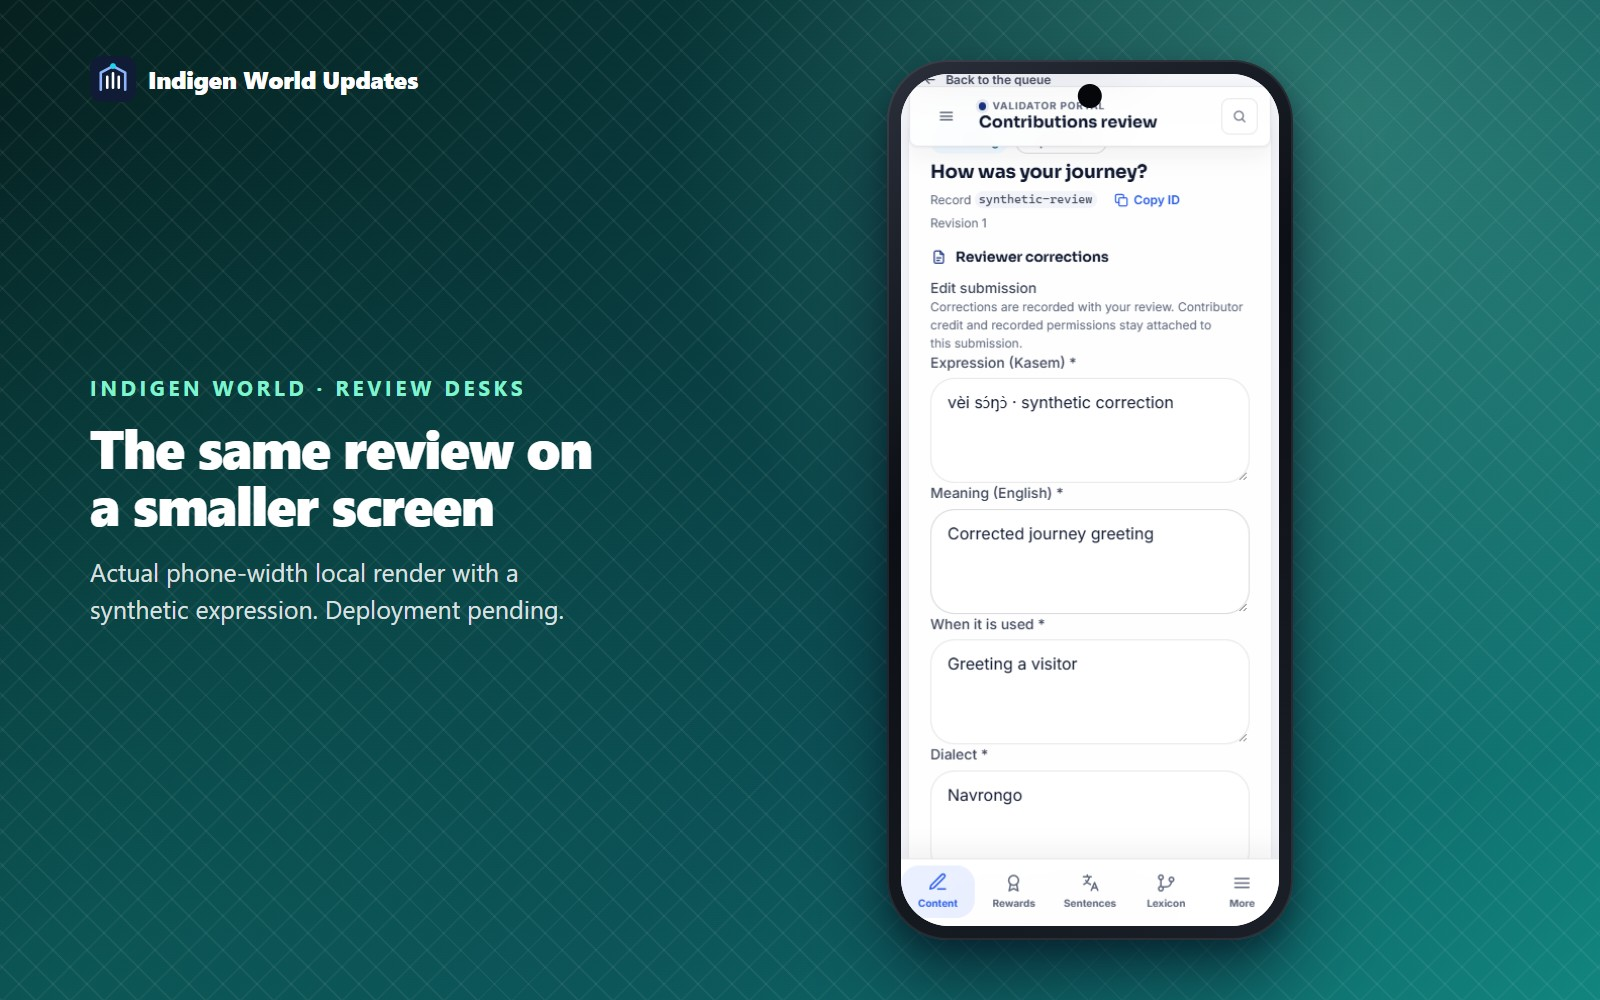
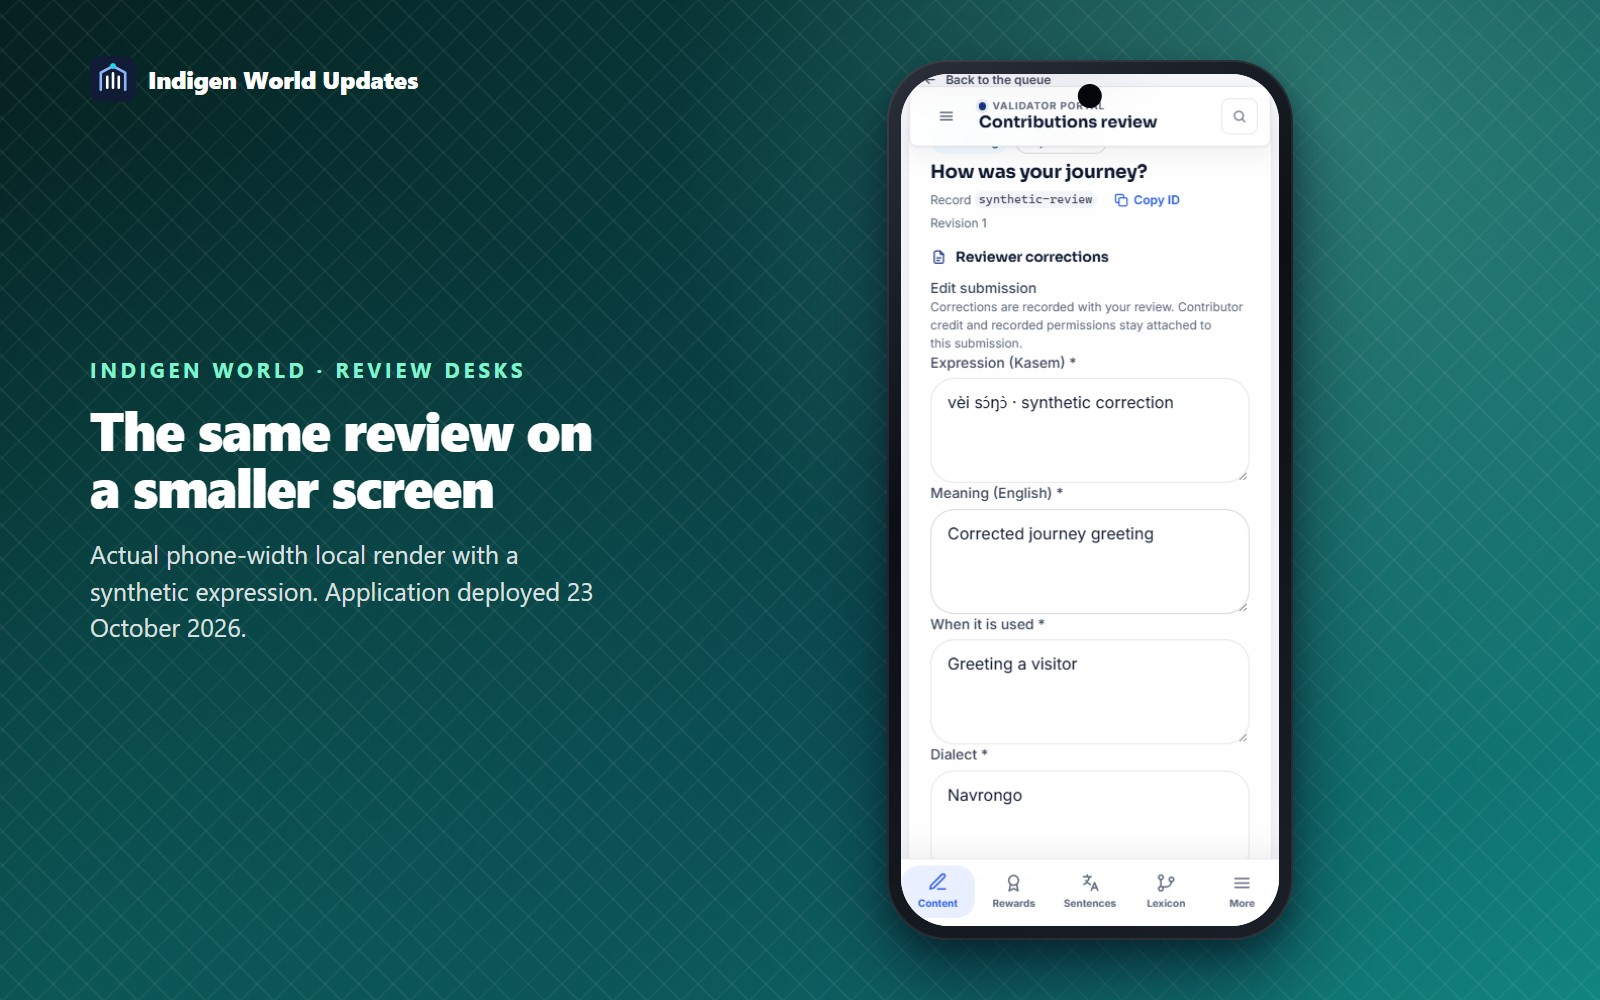
Record verified reviewer editing production release

Changed region(s): [[0.0312, 0.341, 0.375, 0.651]]

diff --git a/apps/updates-blog/posts/2026-10-23-reviewer-editing/post.html b/apps/updates-blog/posts/2026-10-23-reviewer-editing/post.html
@@ -1,6 +1,6 @@
 <div class="iw-release">
   <p>A review sometimes needs a small correction: a tone mark, a clearer meaning, an example sentence or a source attribution. Reviewers can now make those corrections directly in the Administration and Validator review desks, then save the work or publish it when permission allows.</p>
-  <figure><img src="images/cover.png" alt="Indigen World review desks with the message Correct it here, publish with confidence" /><figcaption>Illustrated cover using actual local interface captures and synthetic submissions. Deployment is pending.</figcaption></figure>
+  <figure><img src="images/cover.png" alt="Indigen World review desks with the message Correct it here, publish with confidence" /><figcaption>Illustrated cover using actual local interface captures and synthetic submissions. Application deployed 23 October 2026.</figcaption></figure>
   <h2>Correct the wording where you review it</h2>
   <p>Open a submission and choose <strong>Edit submission</strong>. Correct its content, meaning, dialect or context. Expand the additional sections for examples, attribution, individual dictionary meanings and word forms. Translation submissions also offer their translated content.</p>
   <p>Choose <strong>Save corrections</strong> to keep the submission in its current status and continue reviewing. Corrections are saved with the submission and its linked contribution receipt, with before-and-after values recorded privately for accountability.</p>
@@ -13,5 +13,5 @@
   <p>Editing does not change who contributed the work or the permissions they recorded. Reviewers cannot use the editor to grant publication consent, change ownership or approve their own submissions. If another reviewer changes the record, the portal asks you to load the latest version before applying a decision.</p>
   <figure><img src="images/validator-mobile.jpg" alt="Reviewer correction fields in the Validator portal on a phone-sized screen" /><figcaption>Actual local phone-width render with synthetic content. The same correction fields are available on smaller screens.</figcaption></figure>
   <h2>Availability</h2>
-  <p>This update is implemented and locally tested. Deployment is pending; it is not yet confirmed available on the live portals. It uses existing reviewer access and the Administration console’s two-step verification. It covers submission text and related content fields; replacing uploads and reviewing source documents remain separate workflows.</p>
+  <p>This update was deployed on 23 October 2026. Open <a href="https://admin.indigenworld.com/review">Administration’s Review Desk</a> or <a href="https://tribestudio.indigenworld.com/contributor/review">the Validator portal</a>, refresh if it was already open, and sign in with your existing reviewer account. Administration keeps its two-step verification. Live routes and application bundles were checked; the editing workflow was tested locally with synthetic submissions. It covers submission text and related content fields; replacing uploads and reviewing source documents remain separate workflows.</p>
 </div>

diff --git a/apps/updates-blog/posts/2026-10-23-reviewer-editing/README.md b/apps/updates-blog/posts/2026-10-23-reviewer-editing/README.md
@@ -4,7 +4,7 @@
 - **Labels:** Indigen World, Product updates, Administration, Validator portal, Languages, Community contributions
 - **Search description:** Reviewers can correct submission wording in the admin and validator portals, save their work, and publish with the contributor's permission and credit.
 - **Prepared:** 23 October 2026 (UTC).
-- **Deployment status:** Implemented and locally tested. Not deployed by this task. Deploy the affected Functions before both portal hosting builds.
+- **Deployment status:** Deployed 23 October 2026 (UTC), source `142b5b00`. All three affected Functions are ACTIVE. Administration Hosting version `a1af8739e780dd64`; TribeStudio version `d2db363f350d241a`. Live routes, bundles and unauthenticated access guards verified; authenticated production editing/publishing was not exercised.
 - **Blogger publication:** Not published. Publication and sharing remain with Chinedum.
 
 ## Images and credits
@@ -27,7 +27,7 @@ node apps/updates-blog/scripts/render-post-art.mjs 2026-10-23-reviewer-editing
 
 ## Publishing handoff
 
-1. Confirm deployment and update the availability paragraph in `post.html` before describing this as live.
+1. Review the confirmed release evidence and verification limits in `deployment-verification.json` and `verification.md`.
 2. Create the Blogger post using the title, labels and search description above.
 3. Upload `images/cover.png`, `images/admin-desktop.jpg`, `images/validator-desktop.jpg` and `images/validator-mobile.jpg` to Blogger.
 4. Paste `post.html` in HTML mode. Replace each local image `src` with its uploaded Blogger URL, retaining alt text and captions.

diff --git a/apps/updates-blog/posts/README.md b/apps/updates-blog/posts/README.md
@@ -8,7 +8,7 @@ date identifies when the post was prepared; it does not prove the update is live
 
 ## Posts
 
-- [2026-10-23: Correct a submission and publish from the review desk](2026-10-23-reviewer-editing/README.md) — direct content corrections in Administration and the Validator portal, save-and-continue, combined approval/publication, version checks and private correction history. Includes local product captures with synthetic data. Implementation prepared; deployment and Blogger publication pending.
+- [2026-10-23: Correct a submission and publish from the review desk](2026-10-23-reviewer-editing/README.md) — direct content corrections in Administration and the Validator portal, save-and-continue, combined approval/publication, version checks and private correction history. Includes local product captures with synthetic data. Deployed 23 October; both portal bundles, three active Functions and access guards verified. Authenticated production editing remains unverified. Blogger publication pending.
 
 - [2026-10-23: More ways to share what you know](2026-10-23-all-round-contributor-portal/README.md) — contributor Home cards, dedicated contribution workspaces, independent usage permissions, private source material and traceable review/export. Includes actual local captures with synthetic fixtures. Deployed 23 October; live routes, bundles and function states verified. Authenticated production review remains unverified after automated App Check rejection. Blogger publication and sharing remain with Chinedum.
 

diff --git a/apps/updates-blog/posts/2026-10-23-reviewer-editing/verification.md b/apps/updates-blog/posts/2026-10-23-reviewer-editing/verification.md
@@ -1,6 +1,7 @@
 # Local verification — 23 October 2026
 
-Application deployment and authenticated production review were not performed.
+Application deployed 23 October 2026 from source `142b5b00`. Authenticated
+production editing/publishing was not performed.
 All accounts, submissions, expressions and source text used in tests are synthetic.
 
 | Check | Result |
@@ -44,3 +45,13 @@ Screens in `screens/` were generated with
 with the existing `render-post-art.mjs` script. The browser harness contacts only
 its local fixture server. Visual inspection covered the actual editor layouts
 and branded cover. No real contributor material is present.
+
+## Confirmed production release
+
+Deployed 23 October 2026 (UTC), source `142b5b00`. All three affected Functions are ACTIVE. Administration Hosting version `a1af8739e780dd64`; TribeStudio version `d2db363f350d241a`. Live routes, bundles and unauthenticated access guards verified; authenticated production editing/publishing was not exercised.
+
+See [deployment-verification.json](deployment-verification.json) for the exact
+function revisions, Hosting release times, six live portal routes and bundle
+SHA-256 comparisons. Three unauthenticated callable probes returned HTTP 401.
+No real contributor submission was edited or published during verification.
+Blogger publication and community sharing remain with Chinedum.

diff --git a/apps/updates-blog/posts/2026-10-23-reviewer-editing/share.md b/apps/updates-blog/posts/2026-10-23-reviewer-editing/share.md
@@ -1,5 +1,5 @@
 Reviewers can correct submission wording directly in the Indigen World admin and validator review desks, save corrections, and approve and publish together. Contributor credit and recorded publication permissions stay attached to the work.
 
-Availability: implementation prepared and locally tested; deployment pending. Update this line after confirming release.
+Available in the Administration and Validator portals from 23 October 2026. Refresh your portal and sign in with your existing reviewer account.
 
 Published article URL: **[REPLACE WITH THE PUBLISHED BLOGGER ARTICLE URL]**

diff --git a/docs/architecture/reviewer-editing.md b/docs/architecture/reviewer-editing.md
@@ -1,6 +1,9 @@
 # Editing reviewed submissions
 
-Implemented 23 October 2026. Deployment pending.
+Implemented and deployed 23 October 2026, application source `142b5b00`.
+Three affected Functions are ACTIVE; both portal releases and live bundles are
+verified. Authenticated production editing/publishing was not exercised. See
+`apps/updates-blog/posts/2026-10-23-reviewer-editing/deployment-verification.json`.
 
 Both the Administration Review Desk and TribeStudio Validator portal let existing
 reviewers correct submission content. **Save corrections** keeps the current
